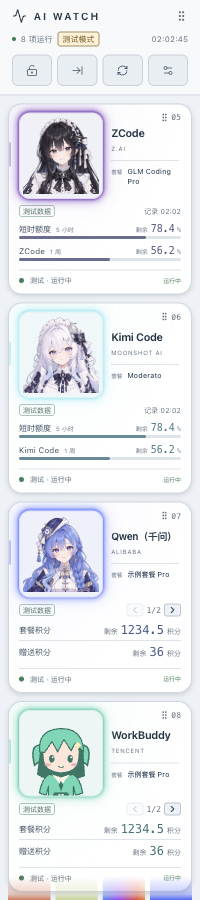
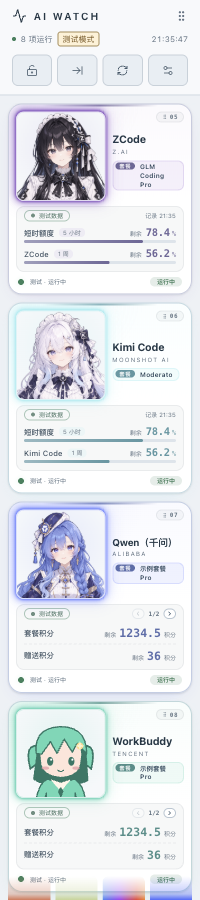
Redesign anime mode card UI (v0.14.0)

diff --git a/src/anime.css b/src/anime.css
@@ -1,0 +1,208 @@
+/*
+ * Anime mode card layout (NewUI).
+ * Loaded after styles.css; every rule is scoped to `.anime-mode`, so the ordinary layout is untouched.
+ *
+ * Structure inside each card (top → bottom):
+ *   hero   — square portrait frame + identity column (name, source, plan chip)
+ *   panel  — inset data panel: source / pagination row, quota · credit · balance rows
+ *   footer — status dot, task text and a status pill
+ *
+ * Sizes follow one scale derived from window width (the window keeps a 4.5 : 1 ratio,
+ * so width-based units also track the card height).
+ */
+.anime-mode .provider-card {
+  --a-pad: clamp(7px, 3.1vw, 12px);
+  --a-gap: clamp(5px, 2vw, 8px);
+  --a-radius: clamp(8px, 3.4vw, 12px);
+  --a-title: clamp(10px, 5.3vw, 17px);
+  --a-body: clamp(7.5px, 3.6vw, 11.5px);
+  --a-caption: clamp(6px, 2.75vw, 8.5px);
+  --a-number: clamp(10.5px, 5.2vw, 17px);
+  --a-ink: var(--accent-ink, var(--accent));
+  --a-tint: color-mix(in srgb, var(--accent) 12%, transparent);
+  --a-tint-border: color-mix(in srgb, var(--accent) 26%, transparent);
+  --a-panel: color-mix(in srgb, var(--text) 3.5%, transparent);
+  --a-panel-border: color-mix(in srgb, var(--text) 7%, transparent);
+  display: grid;
+  grid-template-columns: minmax(0, 1fr);
+  grid-template-rows: 51% minmax(0, 1fr) auto;
+  gap: var(--a-gap);
+  padding: var(--a-pad);
+  border-color: color-mix(in srgb, var(--accent) 16%, var(--line));
+  background:
+    radial-gradient(120% 70% at 0 0, color-mix(in srgb, var(--accent) 13%, transparent), transparent 62%),
+    linear-gradient(180deg, color-mix(in srgb, var(--accent) 5%, var(--card)), var(--card) 55%);
+  box-shadow: 0 1px 2px #0000001f, 0 6px 18px -10px color-mix(in srgb, var(--accent) 45%, transparent);
+}
+/* Thin accent line along the top edge replaces the side marker. */
+.anime-mode .provider-card::before {
+  top: 0; left: 18%; right: 18%; width: auto; height: 2px;
+  border-radius: 0 0 2px 2px; opacity: .75;
+  background: linear-gradient(90deg, transparent, var(--a-ink), transparent);
+}
+/* Light theme: keep more of each character's color than the base 42% mix. */
+:root[data-theme="light"] .anime-mode .provider-card { --accent-ink: color-mix(in srgb, var(--accent) 55%, #1d3446); }
+.anime-mode .plan-status { flex: none; }
+
+/* ── Hero ─────────────────────────────────────────────── */
+.anime-mode .card-heading {
+  display: flex; align-items: stretch; gap: var(--a-pad);
+  height: 100%; min-height: 0;
+}
+.anime-mode .card-heading .avatar-launch {
+  flex: none; height: 100%; aspect-ratio: 1 / 1; width: auto;
+  min-width: 0; min-height: 0; border-radius: var(--a-radius);
+}
+.anime-mode .card-heading .avatar { width: 100%; height: 100%; border-radius: var(--a-radius); }
+.anime-mode .card-heading .avatar-face {
+  border: 1px solid var(--a-tint-border);
+  background: radial-gradient(circle at 50% 38%, color-mix(in srgb, var(--accent) 16%, var(--avatar-bg)), var(--avatar-bg) 78%);
+  box-shadow: inset 0 0 0 1px color-mix(in srgb, #fff 6%, transparent);
+}
+.anime-mode .card-heading .avatar img { padding: 0; object-fit: contain; object-position: center bottom; }
+.anime-mode .avatar-launch:hover .avatar-face { border-color: var(--a-ink); }
+
+.anime-mode .identity {
+  flex: 1; min-width: 0;
+  display: flex; flex-direction: column; justify-content: center; align-items: flex-start;
+  gap: clamp(2px, .9vw, 4px);
+  padding-top: calc(var(--a-caption) * 1.9);
+}
+.anime-mode .identity h2 {
+  order: 0; max-width: 100%; margin: 0;
+  font-size: var(--a-title); font-weight: 700; line-height: 1.2; letter-spacing: -.3px;
+  overflow-wrap: anywhere; text-wrap: balance;
+}
+.anime-mode .provider-card[data-provider="deepseek"] .identity h2,
+.anime-mode .provider-card[data-provider="qwen"] .identity h2 { font-size: calc(var(--a-title) * .92); }
+.anime-mode .identity .eyebrow {
+  order: 1; max-width: 100%;
+  font-size: var(--a-caption); line-height: 1.4; letter-spacing: 1.1px;
+  text-transform: uppercase; color: var(--muted); overflow-wrap: anywhere;
+}
+/* Plan chip: a small "套餐" label followed by the tier name. */
+.anime-mode .plan-summary {
+  order: 2; display: flex; flex-wrap: nowrap; align-items: flex-start; gap: 5px;
+  max-width: 100%; margin-top: clamp(2px, .9vw, 5px);
+  padding: 2px 6px 2px 2px; border-radius: 6px;
+  border: 1px solid var(--a-tint-border); background: var(--a-tint);
+  font-size: var(--a-caption); line-height: 1.35; color: var(--strong);
+}
+.anime-mode .plan-summary::before {
+  content: '套餐'; flex: none; padding: 0 4px; border-radius: 4px;
+  background: var(--a-ink); color: var(--card); font-size: .9em; font-weight: 600; letter-spacing: .5px;
+}
+.anime-mode .plan-name {
+  min-width: 0; padding: 0; border-radius: 0; background: transparent;
+  white-space: normal; overflow-wrap: anywhere; font-weight: 600; font-size: 1.08em;
+}
+.anime-mode .plan-status { font-size: .9em; color: var(--muted); }
+.anime-mode .plan-summary.is-stale { color: var(--secondary); }
+.anime-mode .plan-summary.is-stale::before { background: var(--secondary); }
+
+/* Ordinal badge sits in the hero's top-right corner. */
+.anime-mode .card-index {
+  top: 0; right: 0; gap: 2px; padding: 1px 5px; border-radius: 999px;
+  font: 600 var(--a-caption) ui-monospace, 'SF Mono', monospace; letter-spacing: .5px;
+  color: var(--ordinal); background: var(--a-panel); border: 1px solid var(--a-panel-border);
+}
+.anime-mode .card-index svg { width: .95em; height: .95em; opacity: .7; }
+
+/* ── Data panel ───────────────────────────────────────── */
+.anime-mode .quota-area {
+  gap: clamp(3px, 1.2vw, 6px);
+  padding: clamp(4px, 1.8vw, 8px) clamp(6px, 2.8vw, 10px);
+  border-radius: var(--a-radius);
+  background: var(--a-panel); border: 1px solid var(--a-panel-border);
+}
+.anime-mode .quota-tools { min-height: 0; font-size: var(--a-caption); line-height: 1.4; }
+.anime-mode .source-tag {
+  display: inline-flex; align-items: center; gap: 4px;
+  padding: 0 6px; border-radius: 999px; font-size: var(--a-caption); line-height: 1.6;
+}
+.anime-mode .source-tag::before { content: ''; width: 4px; height: 4px; border-radius: 50%; background: currentColor; opacity: .75; }
+.anime-mode .quota-time { font-size: var(--a-caption); color: var(--secondary); }
+.anime-mode .quota-pagination { gap: 4px; font: 600 var(--a-caption) ui-monospace, 'SF Mono', monospace; color: var(--secondary); }
+.anime-mode .quota-pagination button {
+  width: calc(var(--a-caption) * 2.1); height: calc(var(--a-caption) * 1.7);
+  border-radius: 999px; background: var(--card);
+}
+.anime-mode .quota-pagination button svg { width: 1.2em; height: 1.2em; }
+
+.anime-mode .quota-list { gap: clamp(3px, 1.2vw, 6px); justify-content: space-evenly; }
+.anime-mode .quota-label {
+  align-items: center; margin-bottom: clamp(2px, .9vw, 5px);
+  font-size: var(--a-body); line-height: 1.2; color: var(--label);
+}
+.anime-mode .quota-label > span { align-items: center; }
+.anime-mode .model-name { font-weight: 500; }
+.anime-mode .quota-label small {
+  padding: 0 4px; border-radius: 4px; line-height: 1.5;
+  font-size: var(--a-caption); color: var(--period); background: var(--a-tint);
+}
+.anime-mode .quota-label strong { font-size: var(--a-number); font-weight: 600; line-height: 1; letter-spacing: -.3px; }
+.anime-mode .remaining-label { font-size: var(--a-caption); margin-right: 4px; font-weight: 400; letter-spacing: 0; }
+.anime-mode .quota-track { height: clamp(3px, 1.25vw, 5px); border-radius: 999px; }
+.anime-mode .quota-fill {
+  opacity: 1; border-radius: 999px;
+  background: linear-gradient(90deg, color-mix(in srgb, var(--a-ink) 55%, transparent), var(--a-ink));
+}
+.anime-mode .quota-fill.is-low { background: linear-gradient(90deg, color-mix(in srgb, var(--low) 55%, transparent), var(--low)); }
+
+/* Credits (Qwen / WorkBuddy) */
+.anime-mode .credit-item { padding-block: 1px; gap: 6px; }
+.anime-mode .credit-item + .credit-item { border-top: 1px dashed var(--a-panel-border); }
+.anime-mode .credit-label { font-size: var(--a-body); font-weight: 500; }
+.anime-mode .credit-amount { gap: 3px; }
+.anime-mode .credit-amount > span, .anime-mode .credit-amount small { font-size: var(--a-caption); }
+.anime-mode .credit-value { font-size: calc(var(--a-number) * 1.1); font-weight: 600; }
+.anime-mode .credits-empty { display: flex; flex: 1; flex-direction: column; justify-content: center; text-align: center; }
+.anime-mode .credits-empty strong { font-size: var(--a-body); }
+.anime-mode .credits-empty > span { font-size: var(--a-number); margin-top: 2px; }
+.anime-mode .credits-empty p { margin-top: 2px; font-size: var(--a-caption); -webkit-line-clamp: 1; }
+
+/* Balance (DeepSeek) */
+.anime-mode .balance-content { gap: clamp(2px, .9vw, 5px); }
+.anime-mode .balance-caption { font-size: var(--a-caption); }
+.anime-mode .currency-switch { border-radius: 999px; padding: 0 6px; font-size: var(--a-caption); }
+.anime-mode .balance-total { gap: 4px; line-height: 1; }
+.anime-mode .balance-total small { font-size: var(--a-body); }
+.anime-mode .balance-total strong { font-size: calc(var(--a-number) * 1.55); font-weight: 600; line-height: 1; letter-spacing: -.5px; }
+.anime-mode .balance-total > span { font-size: var(--a-caption); }
+.anime-mode .balance-parts { font-size: var(--a-caption); }
+.anime-mode .balance-parts b { font-weight: 600; }
+.anime-mode .balance-empty { text-align: center; }
+.anime-mode .balance-empty strong { font-size: var(--a-body); }
+.anime-mode .balance-empty p { font-size: var(--a-caption); line-height: 1.5; margin-top: 3px; }
+
+/* Claude without a Code quota window */
+.anime-mode .claude-empty {
+  flex: 1; min-height: 0; display: flex; flex-direction: column; justify-content: center; align-items: center;
+  padding: 2px 0; text-align: center; font-size: var(--a-caption); line-height: 1.5;
+}
+.anime-mode .claude-empty strong { font-size: var(--a-body); font-weight: 600; }
+.anime-mode .claude-empty p { margin: 3px 0 0; }
+.anime-mode .claude-empty small { display: none; }
+
+/* ── Footer ───────────────────────────────────────────── */
+.anime-mode .task-line {
+  gap: 6px; padding: 0 2px; border-top: 0;
+  font-size: var(--a-caption); line-height: 1.6; color: var(--task);
+}
+.anime-mode .task-line .status-dot { width: 6px; height: 6px; }
+.anime-mode .task-status {
+  flex: none; padding: 0 7px; border-radius: 999px; font-size: 1em; font-weight: 600;
+  color: var(--status); background: color-mix(in srgb, currentColor 13%, transparent);
+}
+.anime-mode .is-running .task-status { color: var(--running); }
+.anime-mode .provider-card[data-attention="true"] .task-status { color: var(--attention-text); }
+
+/* Short windows: trim inner padding so every row keeps its own line. */
+@media (max-height: 1000px) {
+  .anime-mode .provider-card { --a-gap: 5px; --a-pad: 7px; }
+  .anime-mode .quota-area { padding: 3px 7px; gap: 2px; }
+  .anime-mode .quota-list { gap: 2px; }
+  .anime-mode .quota-label { margin-bottom: 2px; }
+  .anime-mode .quota-track { height: 3px; }
+  .anime-mode .plan-summary { padding-block: 1px; }
+}

diff --git a/src/styles.css b/src/styles.css
@@ -272,49 +272,3 @@ legend { margin-bottom: 10px; color: var(--label); font-size: 12px; }
 .app-option { display: flex; align-items: center; justify-content: space-between; gap: 8px; margin: 12px 0; }
 .app-option > span { font-size: 10px; min-width: 0; }
 .app-option > button { flex-shrink: 0; background: var(--image-button-bg); color: var(--control-text); border: 1px solid var(--page-border); border-radius: 4px; padding: 4px 7px; font-size: 9px; }
-.anime-mode .provider-card { display: grid; grid-template-columns: minmax(0, 1fr); grid-template-rows: 50% minmax(0, 1fr) auto; gap: 6px; padding: 8px 10px; }
-.anime-mode .card-heading { display: grid; grid-template-columns: 52% minmax(0, 1fr); align-items: center; gap: 8px; min-height: 0; height: 100%; }
-.anime-mode .card-heading .avatar-launch, .anime-mode .card-heading .avatar { width: 100%; height: 100%; min-height: 0; min-width: 0; }
-.anime-mode .card-heading .avatar, .anime-mode .card-heading .avatar-launch { border-radius: 11px; }
-.anime-mode .card-heading .avatar img { padding: 3px; object-fit: contain; }
-.anime-mode .identity { width: 100%; display: flex; flex-direction: column; align-items: stretch; justify-content: center; gap: clamp(3px, .45vh, 7px); padding-right: 2px; }
-.anime-mode .identity h2 { order: 0; margin: 0; font-size: clamp(10px, 5.4vw, 18px); font-weight: 650; overflow-wrap: anywhere; text-wrap: balance; line-height: 1.4; letter-spacing: -.4px; }
-.anime-mode .provider-card[data-provider="qwen"] .identity h2 { font-size: clamp(10px, 5vw, 17px); }
-.anime-mode .eyebrow { order: 1; font-size: clamp(6px, 2.7vw, 8.5px); letter-spacing: .55px; line-height: 1.5; }
-.anime-mode .card-index { top: 0; right: 0; }
-.anime-mode .plan-summary { order: 2; display: grid; grid-template-columns: auto minmax(0, 1fr); align-items: baseline; column-gap: 5px; row-gap: 2px; margin-top: clamp(2px, .3vh, 4px); padding-top: clamp(5px, .6vh, 9px); border-top: 1px solid var(--divider); font-size: clamp(7px, 3.1vw, 10px); line-height: 1.4; }
-.anime-mode .plan-summary::before { content: '套餐'; color: var(--muted); font-size: .8em; white-space: nowrap; }
-.anime-mode .plan-name { padding: 0; border-radius: 0; background: transparent; white-space: normal; overflow-wrap: anywhere; font-weight: 500; }
-.anime-mode .plan-status { grid-column: 2; font-size: .8em; }
-.anime-mode .quota-area { gap: 3px; }
-.anime-mode .quota-list { gap: 4px; justify-content: space-evenly; }
-.anime-mode .quota-label { margin-bottom: 3px; font-size: clamp(8px, 3.7vw, 12px); }
-.anime-mode .quota-label strong { font-size: clamp(10px, 4.8vw, 15px); }
-.anime-mode .task-line { padding-top: 5px; font-size: clamp(7px, 3.4vw, 10px); }
-.anime-mode .credit-item { padding-block: 1px; }
-.anime-mode .credit-value { font-size: clamp(12px, 6vw, 20px); }
-.anime-mode .balance-content { gap: 3px; }
-.anime-mode .balance-total strong { font-size: clamp(18px, 8vw, 26px); }
-.anime-mode .claude-empty { flex: 1; min-height: 0; display: flex; flex-direction: column; justify-content: center; padding: 4px 0; font-size: clamp(7px, 3.1vw, 10px); }
-.anime-mode .claude-empty strong { font-size: clamp(9px, 3.8vw, 12px); font-weight: 550; }
-.anime-mode .claude-empty p { margin-block: 5px 0; line-height: 1.5; }
-.anime-mode .claude-empty small { display: none; }
-.anime-mode .credits-empty p { margin-top: 2px; -webkit-line-clamp: 1; }
-.anime-mode .credits-empty > span { font-size: 15px; margin-top: 2px; }
-@media (max-height: 1000px) {
-  .anime-mode .quota-tools { min-height: 12px; }
-  .anime-mode .source-tag { font-size: 7px; padding: 0 3px; }
-  .anime-mode .quota-time { font-size: 7px; }
-  .anime-mode .quota-pagination button { height: 13px; width: 17px; }
-  .anime-mode .quota-label { margin-bottom: 2px; line-height: 1.1; }
-  .anime-mode .quota-label small { font-size: 6px; }
-  .anime-mode .quota-track { height: 3px; }
-  .anime-mode .quota-list { gap: 3px; }
-  .anime-mode .remaining-label { font-size: 6px; margin-right: 3px; }
-  .anime-mode .credit-label { font-size: 8px; }
-  .anime-mode .credit-amount { gap: 3px; }
-  .anime-mode .credit-amount > span, .anime-mode .credit-amount small { font-size: 7px; }
-  .anime-mode .balance-caption, .anime-mode .balance-parts { font-size: 8px; }
-  .anime-mode .balance-total strong { font-size: 18px; line-height: 1; }
-  .anime-mode .balance-total small { font-size: 11px; }
-}

diff --git a/src/App.tsx b/src/App.tsx
@@ -507,7 +507,7 @@ export default function App() {
         <div className="settings-section"><h3>启动应用</h3><p>点击卡片或收起栏图标打开应用；未找到时可手动选择安装位置。</p>{providers.map(provider => <div className="app-option" key={provider.id}>
           <span>{provider.name}</span><button disabled={choosingApp} onClick={() => void chooseProviderApp(provider)} aria-label={`选择 ${provider.name} 启动应用`}>选择应用</button>
         </div>)}</div>
-        <div className="settings-note"><span className="note-title">本地状态 · v0.13.0</span><p>Codex 使用已有登录每分钟查询官方额度，失败时保留历史值或读取本地记录；Antigravity 同一模型的思考等级合并显示，每 5 秒检查任务，每 30 秒读取额度。刷新按钮会重新读取，联网请求最短间隔 15 秒，失败时自动退避。运行时 LOGO 显示对应颜色的光晕，Codex 待回答或待授权时优先显示红色。</p><p>DeepSeek 使用本设备 Harness 已有登录态查询余额，每分钟更新。换设备后先在 Harness 登录，面板自动识别，无需复制 Key。账号切换或退出后会清除旧余额。</p><p>Claude 自动发现桌面与终端会话，读取桌面用量历史；Free 账号不包含 Code 权限，缺少额度时明确显示不可用。DeepSeek 结合会话记录与进程识别任务活动，黄色表示等待确认。浏览器预览全部使用示例。</p>
+        <div className="settings-note"><span className="note-title">本地状态 · v0.14.0</span><p>Codex 使用已有登录每分钟查询官方额度，失败时保留历史值或读取本地记录；Antigravity 同一模型的思考等级合并显示，每 5 秒检查任务，每 30 秒读取额度。刷新按钮会重新读取，联网请求最短间隔 15 秒，失败时自动退避。运行时 LOGO 显示对应颜色的光晕，Codex 待回答或待授权时优先显示红色。</p><p>DeepSeek 使用本设备 Harness 已有登录态查询余额，每分钟更新。换设备后先在 Harness 登录，面板自动识别，无需复制 Key。账号切换或退出后会清除旧余额。</p><p>Claude 自动发现桌面与终端会话，读取桌面用量历史；Free 账号不包含 Code 权限，缺少额度时明确显示不可用。DeepSeek 结合会话记录与进程识别任务活动，黄色表示等待确认。浏览器预览全部使用示例。</p>
           {displayStatus && <>{providerIds.map((id) => <p key={id}><b>{providers.find(provider => provider.id === id)!.name}</b><br />{displayStatus[id]?.detail}<br />{displayStatus[id]?.activityDetail && <>{displayStatus[id]?.activityDetail}<br /></>}{displayStatus[id]?.observedAt ? `记录时间：${new Date(displayStatus[id]?.observedAt!).toLocaleString('zh-CN')}` : '尚无可用记录'}</p>)}</>}
           <p>{state.desktop ? `桌面版 · 显示缩放 ${state.scaleFactor}×` : '浏览器预览 · 窗口操作请使用桌面版'}</p></div>
       </div>

diff --git a/src/main.tsx b/src/main.tsx
@@ -2,5 +2,6 @@ import React from 'react';
 import { createRoot } from 'react-dom/client';
 import App from './App';
 import './styles.css';
+import './anime.css';
 
 createRoot(document.getElementById('root')!).render(<React.StrictMode><App /></React.StrictMode>);
